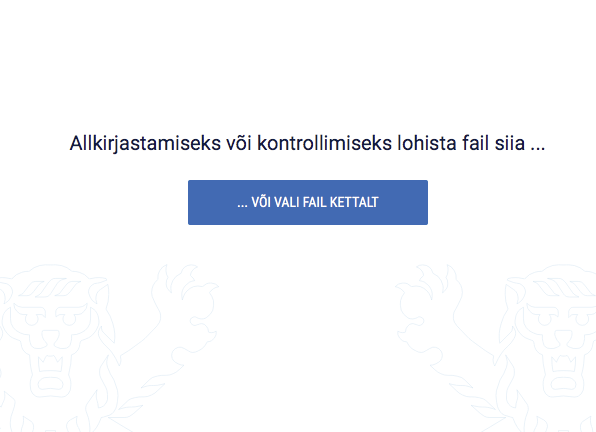
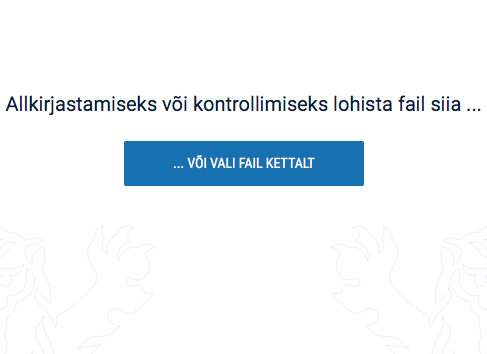
First Run dialog image quality (#105)
- DDKLIEN-42: improve image quality in First Run dialog
  - Focus on main action (button or window) in order to improve scale
  - 1 / 2 / 3 converted to svg

Changed region(s): [[0.0, 0.2486, 0.9856, 0.5282]]

diff --git a/client/dialogs/FirstRun.cpp b/client/dialogs/FirstRun.cpp
@@ -137,14 +137,17 @@ FirstRun::FirstRun(QWidget *parent) :
 	connect(ui->next, &QPushButton::clicked, this, [this](){ui->stack->setCurrentIndex(Encryption);});
 
 	QPixmap sign1 = QPixmap(":/images/intro_sign-select.png");
-	ui->signImage1->setProperty("PICTURE", sign1);
-	ui->signImage1->setPixmap(sign1.scaled(298, 216, Qt::IgnoreAspectRatio, Qt::SmoothTransformation));
+	ui->signImage1->setPixmap(sign1.scaled(ui->signImage1->size(), Qt::IgnoreAspectRatio, Qt::SmoothTransformation));
 	QPixmap sign2 = QPixmap(":/images/intro_sign-sign.png");
-	ui->signImage2->setProperty("PICTURE", sign2);
-	ui->signImage2->setPixmap(sign2.scaled(298, 216, Qt::IgnoreAspectRatio, Qt::SmoothTransformation));
+	ui->signImage2->setPixmap(sign2.scaled(ui->signImage2->size(), Qt::IgnoreAspectRatio, Qt::SmoothTransformation));
 	QPixmap sign3 = QPixmap(":/images/intro_sign-pin.png");
-	ui->signImage3->setProperty("PICTURE", sign3);
-	ui->signImage3->setPixmap(sign3.scaled(298, 216, Qt::IgnoreAspectRatio, Qt::SmoothTransformation));
+	ui->signImage3->setPixmap(sign3.scaled(ui->signImage3->size(), Qt::IgnoreAspectRatio, Qt::SmoothTransformation));
+	QPixmap one = QPixmap(":/images/intro_one.svg");
+	QPixmap two = QPixmap(":/images/intro_two.svg");
+	QPixmap three = QPixmap(":/images/intro_three.svg");
+	ui->signOne->setPixmap(one.scaled(32, 32, Qt::IgnoreAspectRatio, Qt::SmoothTransformation));
+	ui->signTwo->setPixmap(two.scaled(32, 32, Qt::IgnoreAspectRatio, Qt::SmoothTransformation));
+	ui->signThree->setPixmap(three.scaled(32, 32, Qt::IgnoreAspectRatio, Qt::SmoothTransformation));
 	connect(ui->gotoEncryption, &QPushButton::clicked, this, [this](){ui->stack->setCurrentIndex(Encryption);});
 	connect(ui->gotoEid, &QPushButton::clicked, this, [this](){ui->stack->setCurrentIndex(MyEid);});
 
@@ -163,14 +166,14 @@ FirstRun::FirstRun(QWidget *parent) :
 	connect(ui->next_2, &QPushButton::clicked, this, [this](){ui->stack->setCurrentIndex(MyEid);});
 
 	QPixmap crypto1 = QPixmap(":/images/intro_crypto-select.png");
-	ui->cryptoImage1->setProperty("PICTURE", crypto1);
-	ui->cryptoImage1->setPixmap(crypto1.scaled(298, 216, Qt::IgnoreAspectRatio, Qt::SmoothTransformation));
+	ui->cryptoImage1->setPixmap(crypto1.scaled(ui->cryptoImage1->size(), Qt::IgnoreAspectRatio, Qt::SmoothTransformation));
 	QPixmap crypto2 = QPixmap(":/images/intro_crypto-recipient.png");
-	ui->cryptoImage2->setProperty("PICTURE", crypto2);
-	ui->cryptoImage2->setPixmap(crypto2.scaled(298, 216, Qt::IgnoreAspectRatio, Qt::SmoothTransformation));
+	ui->cryptoImage2->setPixmap(crypto2.scaled(ui->cryptoImage2->size(), Qt::IgnoreAspectRatio, Qt::SmoothTransformation));
 	QPixmap crypto3 = QPixmap(":/images/intro_crypto-encrypt.png");
-	ui->cryptoImage3->setProperty("PICTURE", crypto3);
-	ui->cryptoImage3->setPixmap(crypto3.scaled(298, 216, Qt::IgnoreAspectRatio, Qt::SmoothTransformation));
+	ui->cryptoImage3->setPixmap(crypto3.scaled(ui->cryptoImage3->size(), Qt::IgnoreAspectRatio, Qt::SmoothTransformation));
+	ui->cryptoOne->setPixmap(one.scaled(32, 32, Qt::IgnoreAspectRatio, Qt::SmoothTransformation));
+	ui->cryptoTwo->setPixmap(two.scaled(32, 32, Qt::IgnoreAspectRatio, Qt::SmoothTransformation));
+	ui->cryptoThree->setPixmap(three.scaled(32, 32, Qt::IgnoreAspectRatio, Qt::SmoothTransformation));
 	connect(ui->gotoSigning_2, &QPushButton::clicked, this, [this](){ui->stack->setCurrentIndex(Signing);});
 	connect(ui->gotoEid_2, &QPushButton::clicked, this, [this](){ui->stack->setCurrentIndex(MyEid);});
 
